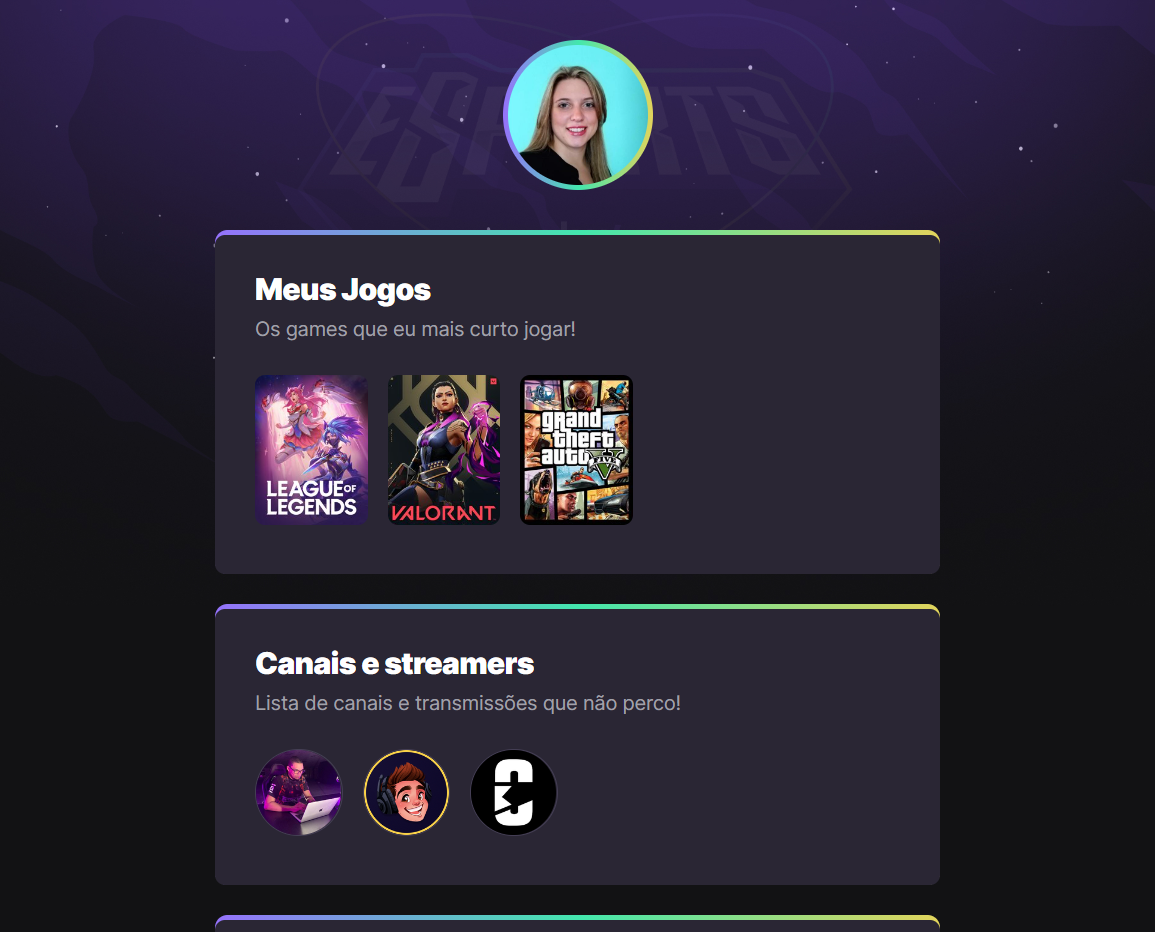
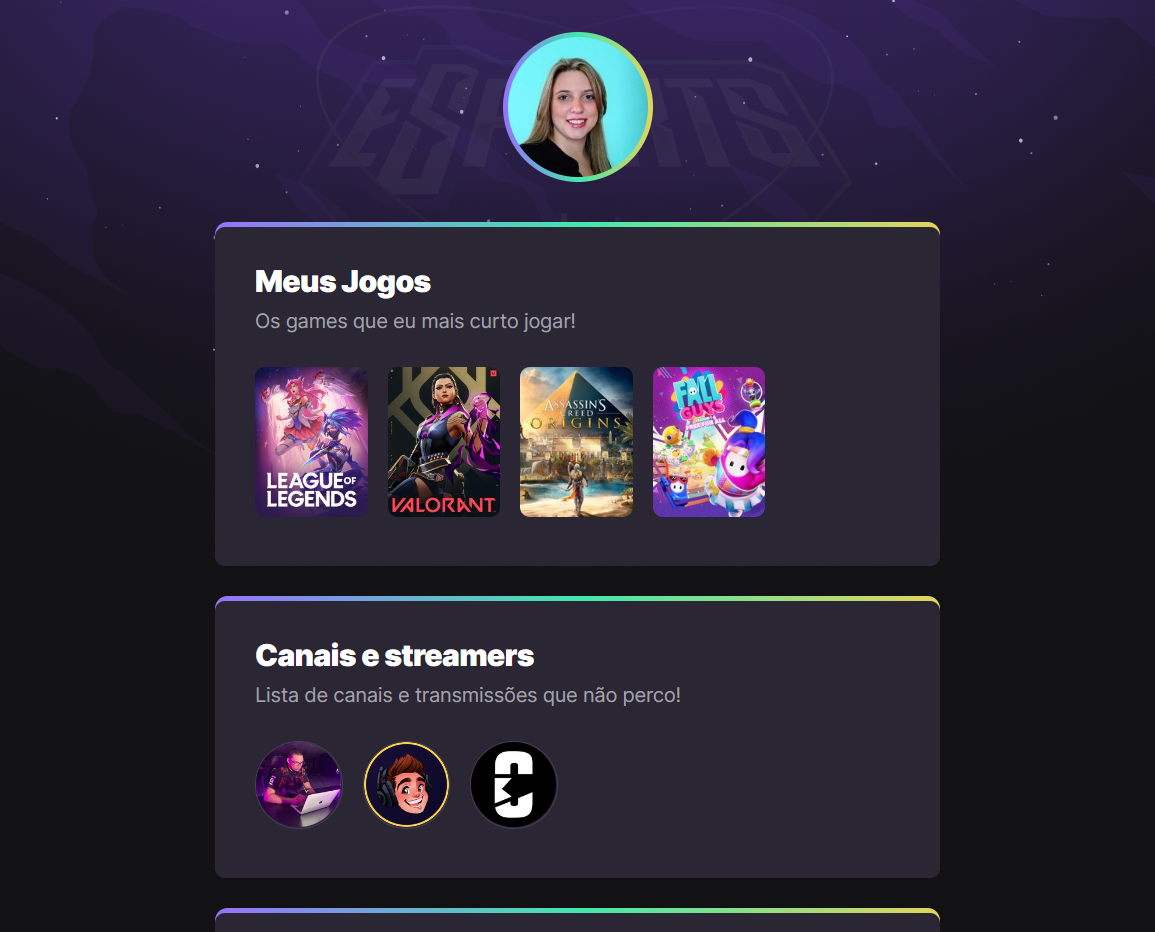
update urls and preview

Changed region(s): [[0.187, 0.0311, 0.8104, 0.6534], [0.2182, 0.6845, 0.5922, 0.9024], [0.187, 0.9335, 0.8104, 0.9957]]

diff --git a/index.html b/index.html
@@ -41,8 +41,14 @@
             </li>
 
             <li>
-              <a href="https://www.twitch.tv/directory/game/Grand%20Theft%20Auto%20V" target="_blank">
-                <img src="https://static-cdn.jtvnw.net/ttv-boxart/32982_IGDB-188x250.jpg" alt="Imagem do jogo Grand Theaf Auto V">
+              <a href="https://www.twitch.tv/directory/game/Assassin's%20Creed%20Origins" target="_blank">
+                <img src="https://static-cdn.jtvnw.net/ttv-boxart/496960_IGDB-144x192.jpg" alt="Imagem do jogo Assassin Creed Origins">
+              </a>
+            </li>
+
+            <li>
+              <a href="https://www.twitch.tv/directory/game/Fall%20Guys" target="_blank">
+                <img src="https://static-cdn.jtvnw.net/ttv-boxart/512980-144x192.jpg" alt="Imagem do jogo Fall Guys">
               </a>
             </li>
           </ul>
